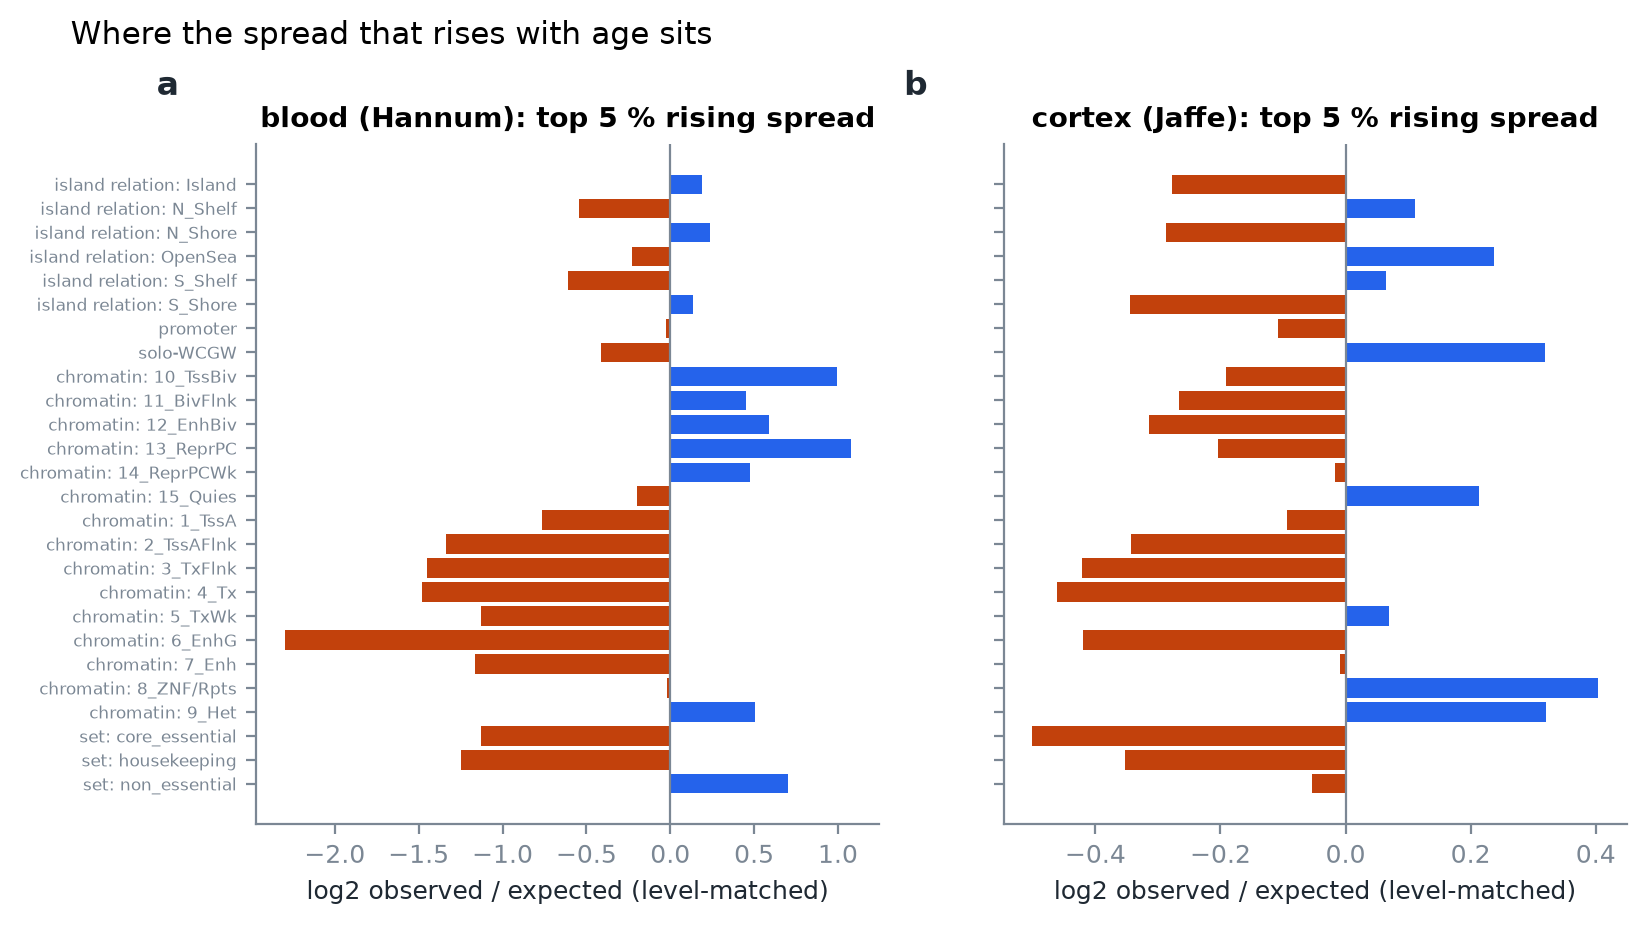
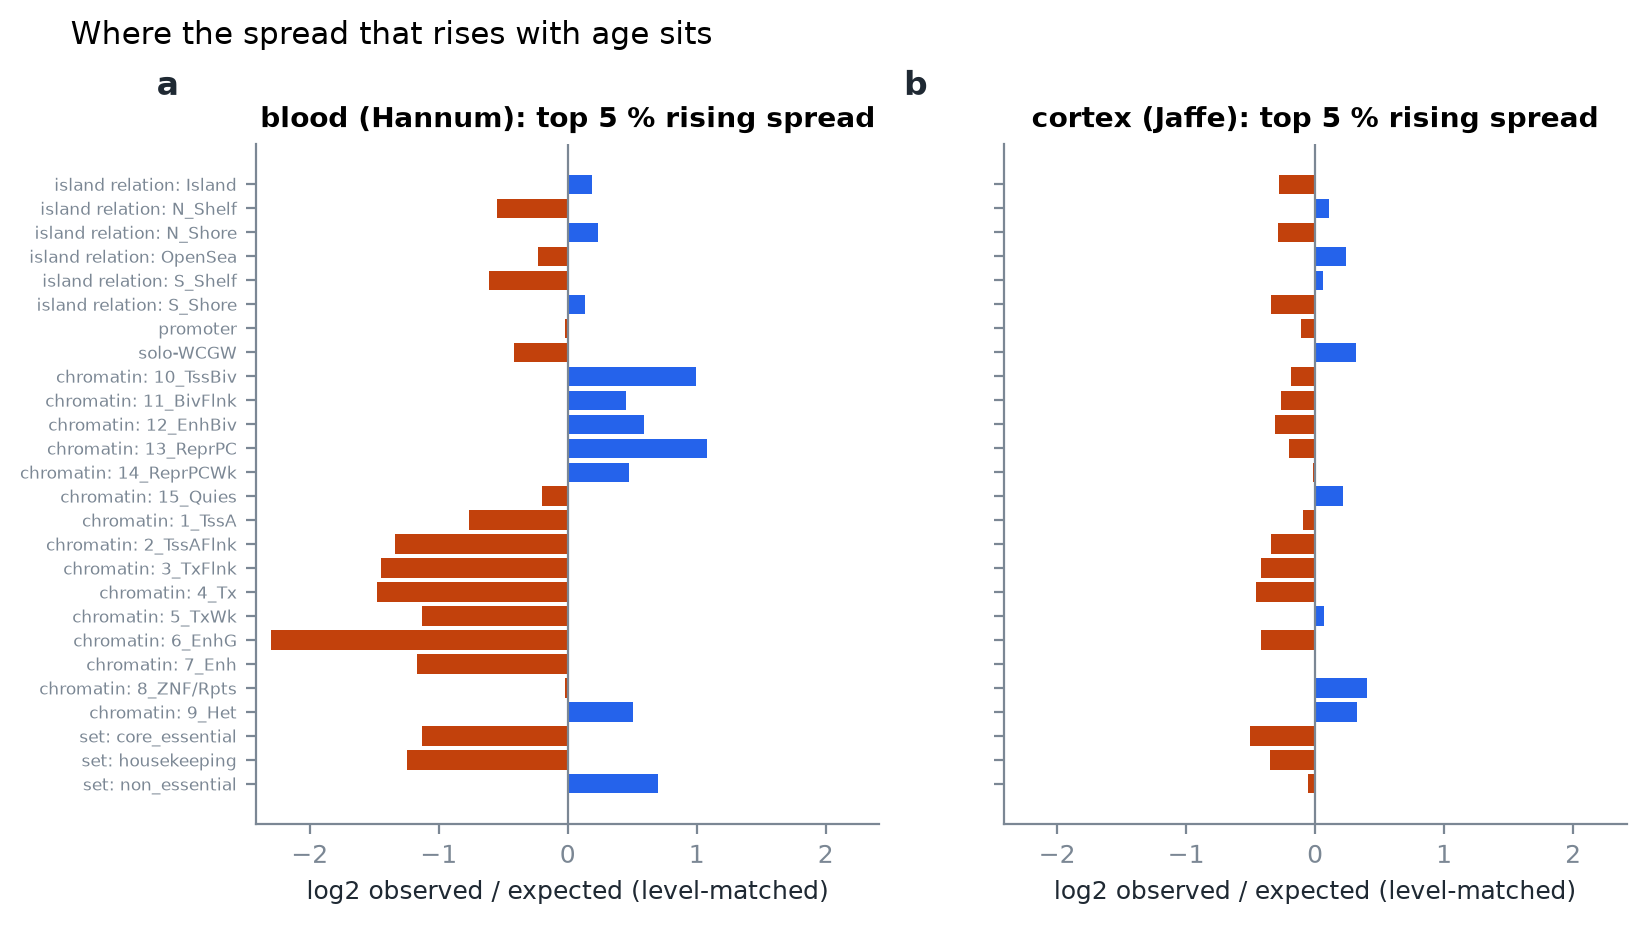
drift_hotspots: one x scale for both tissues (figure redrawn from the table)
Seat: entropy-age/lead
Claude-Session: https://claude.ai/code/session_01TJzjgJACUvbS1joxbZrgzk

diff --git a/src/entropy_age/experiments/drift_hotspots.py b/src/entropy_age/experiments/drift_hotspots.py
@@ -129,5 +129,8 @@ def _figure(ctx: Context, table: pl.DataFrame) -> Path:
         ax.invert_yaxis()
         ax.set(xlabel="log2 observed / expected (level-matched)", title=f"{tissue}: top 5 % rising spread")
         plots.label_panel(ax, letter)
+    lim = float(np.nanmax(np.abs(np.log2(t["ratio"].to_numpy())))) * 1.05
+    for ax in axes[: len(tissues)]:
+        ax.set_xlim(-lim, lim)  # one scale, so the two tissues' spread can be compared by eye
     fig.suptitle("Where the spread that rises with age sits", x=0.02, y=1.02, ha="left", fontsize=11)
     return plots.save(fig, ctx.figure_path("drift_hotspots"))
